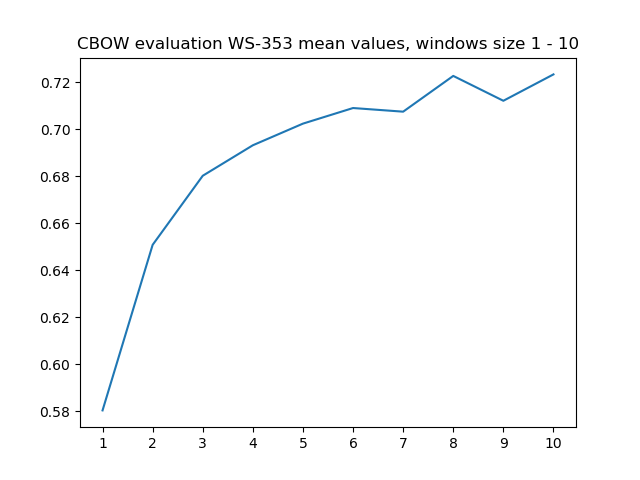
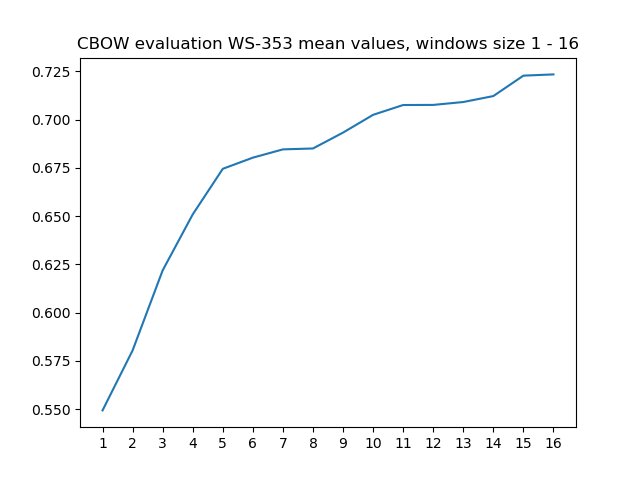
news plots of eval vals

diff --git a/models/values_eval_plot.py b/models/values_eval_plot.py
@@ -1,0 +1,50 @@
+from matplotlib import pyplot as plt
+import numpy as np
+
+mean_rho_data = np.loadtxt("eval_mean_rho.txt", dtype = str, delimiter = "\n")
+#we know there shoould be 12 values in both
+mean_rho_SGNS = []
+mean_rho_CBOW = []
+
+for i, data in enumerate(mean_rho_data):
+    if i == len(mean_rho_data)-1:
+        print("made arrays of values")
+    else:
+        if "cbow" in str(data):
+            print("hej")
+            mean_rho_CBOW.append(float(mean_rho_data[i+1]))
+        if "skipgram" in str(data):
+            print("hejhej")
+            mean_rho_SGNS.append(float(mean_rho_data[i+1]))
+
+mean_rho_SGNS = np.array(mean_rho_SGNS)
+mean_rho_CBOW = np.array(mean_rho_CBOW)
+mean_rho_SGNS.sort()
+mean_rho_CBOW.sort()
+
+print("skip-gram evaluation WS-353 mean values, windows size 1 - {}".format(len(mean_rho_SGNS)))
+#mean_rho_SGNS = [0.6356543304967629,0.6859671484411557  ,0.6924293781318873  , 0.7077708305390136,0.7188599859909027 , 0.7132944845703011 , 0.699551202038216, 0.7192855118852405,  0.7041803792159528,  0.717889605224073]
+
+window_size_SGNS =np.arange(1,len(mean_rho_SGNS)+1,1)
+
+for i in range(len(mean_rho_SGNS)):
+    print("window size " + str(window_size_SGNS[i]) + ": " + str(mean_rho_SGNS[i]))
+
+SGNS_plot, ax_SGNS = plt.subplots()
+ax_SGNS.plot(window_size_SGNS, mean_rho_SGNS)
+plt.xticks(window_size_SGNS)
+ax_SGNS.set_title("skip-gram evaluation WS-353 mean rho values, windows size 1 - {}".format(len(mean_rho_SGNS)))
+SGNS_plot.savefig("SGNS_plot.png")
+
+#mean_rho_CBOW = [0.5804338343545967 , 0.6508858227099523 ,0.6802805346625579  ,0.6932546677573747  , 0.7024608832285866, 0.7090981595837526 ,0.7075484759236735, 0.722764153135901, 0.7121865820323352, 0.7234083268868999 ]
+window_size_CBOW = np.arange(1,len(mean_rho_CBOW)+1,1)
+
+print("CBOW evaluation on WS-353 mean rho values, windows size 1 - {}".format(len(mean_rho_CBOW)))
+for i in range(len(mean_rho_CBOW)):
+    print("window size " + str(window_size_CBOW[i]) + ": " + str(mean_rho_CBOW[i]))
+
+CBOW_plot, ax_CBOW = plt.subplots()
+ax_CBOW.plot(window_size_CBOW, mean_rho_CBOW)
+plt.xticks(window_size_CBOW)
+ax_CBOW.set_title("CBOW evaluation WS-353 mean values, windows size 1 - {}".format(len(mean_rho_CBOW)))
+CBOW_plot.savefig("CBOW_plot.png")
